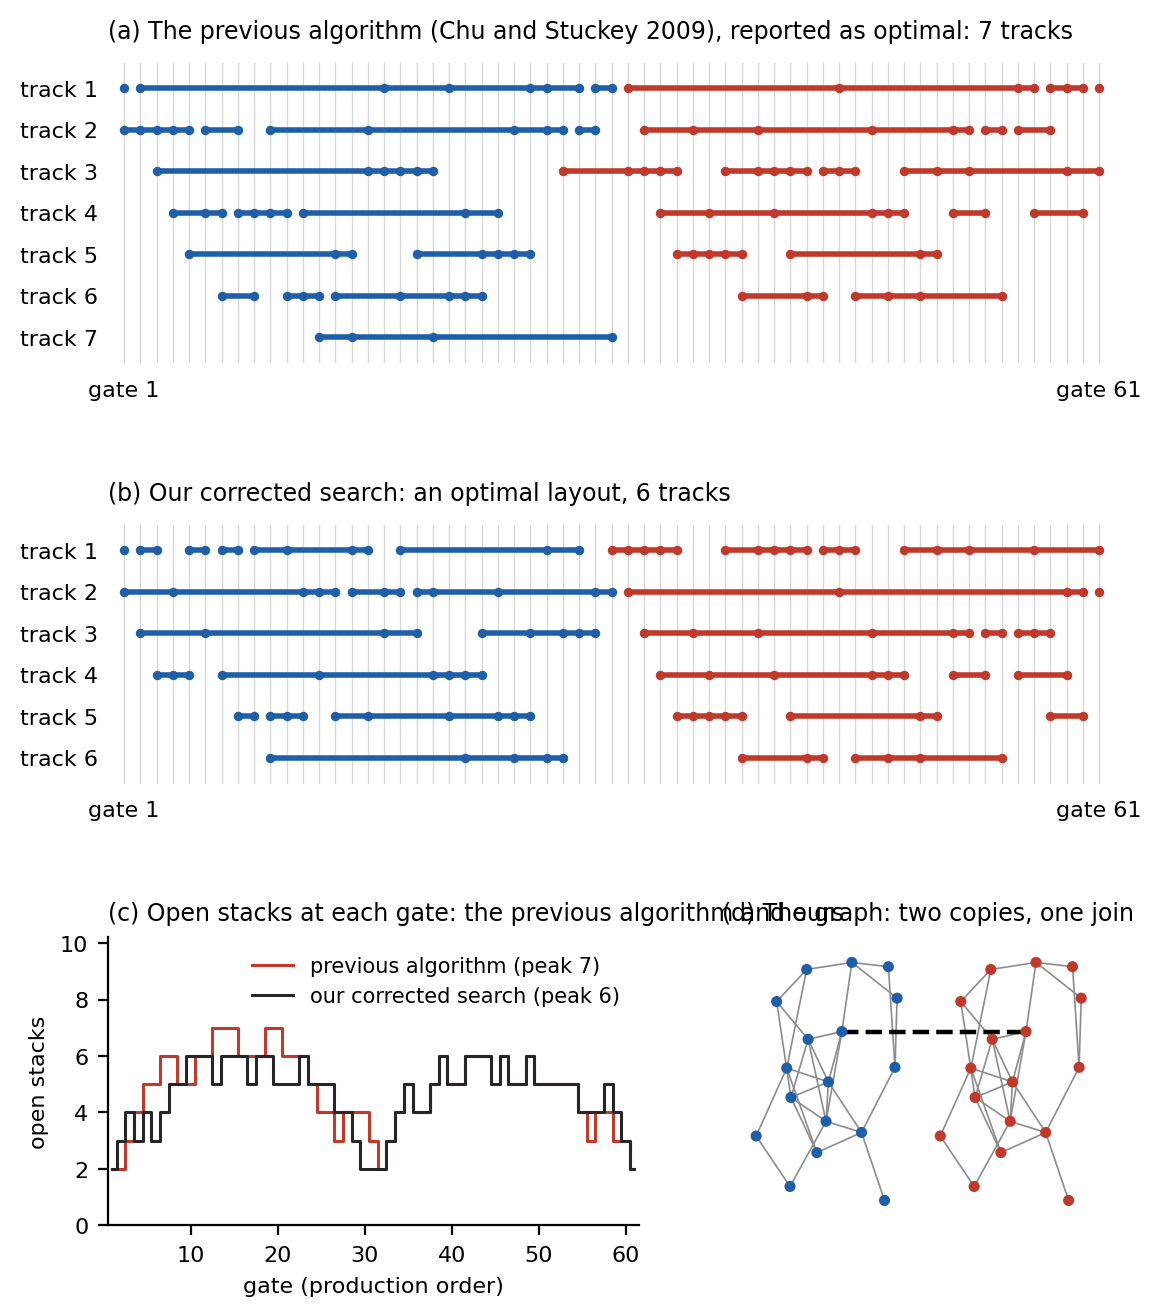
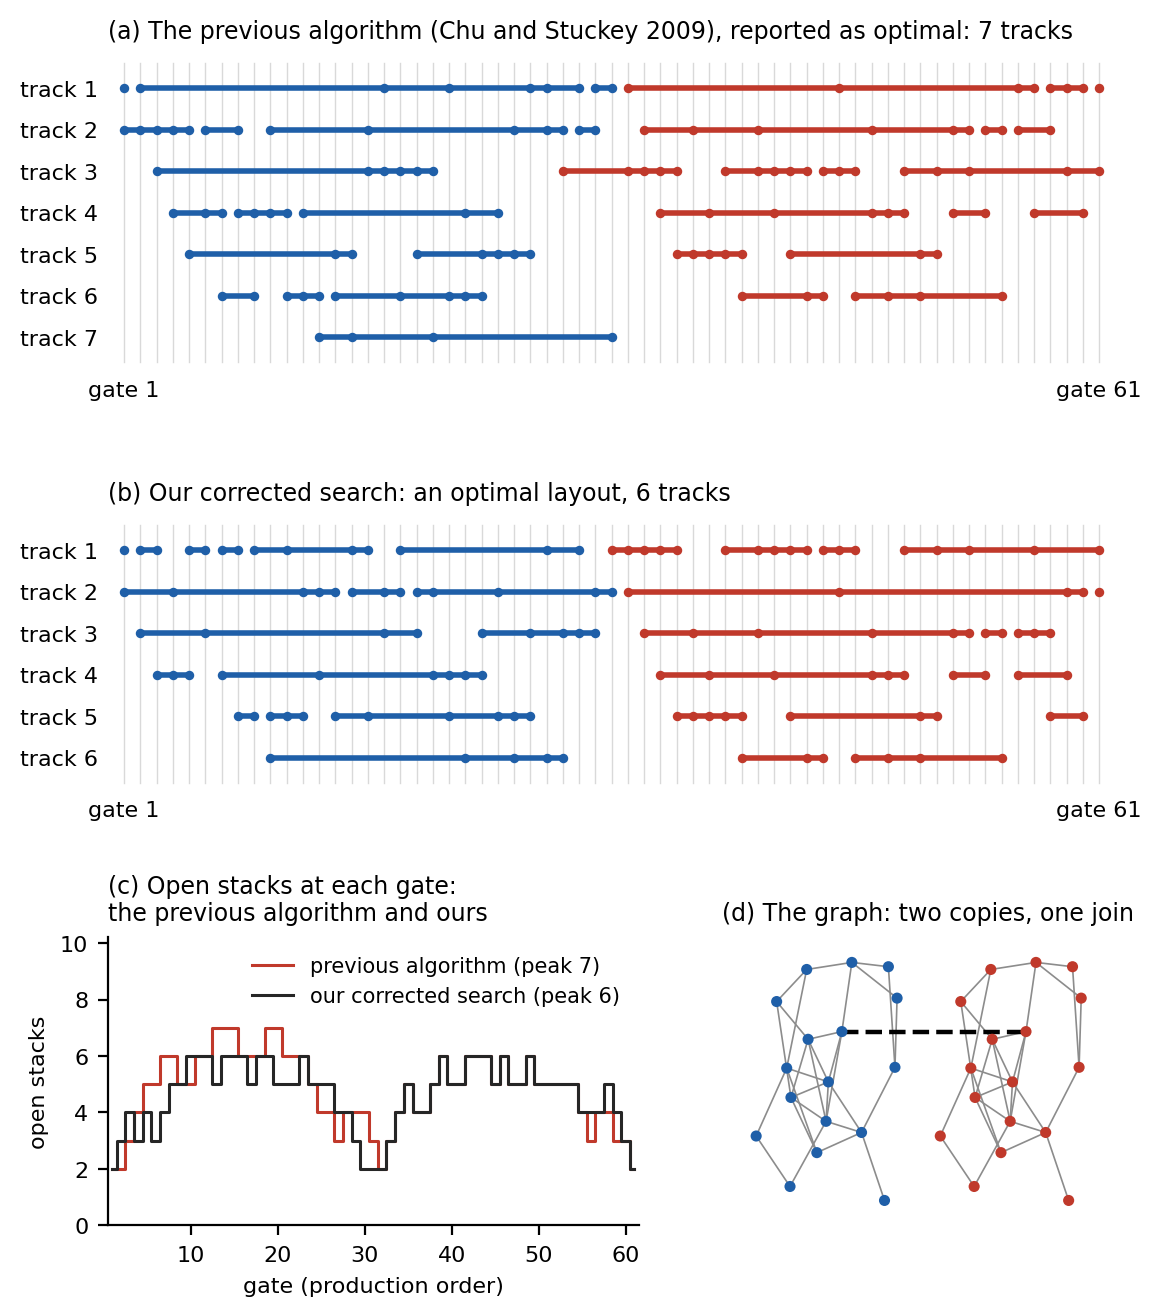
Figure 4.2: panel (c)'s title on two lines, so it no longer runs into (d)'s

Changed region(s): [[0.093, 0.6543, 0.6822, 0.7166]]

diff --git a/paper1/false_refutation_figure.py b/paper1/false_refutation_figure.py
@@ -171,7 +171,7 @@ def draw() -> Path:
     ax_b.legend(loc="upper right", fontsize=7.5, frameon=False, ncol=1)
     for s in ("top", "right"):
         ax_b.spines[s].set_visible(False)
-    ax_b.set_title("(c) Open stacks at each gate: the previous algorithm and ours", loc="left", fontsize=8.5)
+    ax_b.set_title("(c) Open stacks at each gate:\nthe previous algorithm and ours", loc="left", fontsize=8.5)
 
     # (d) the MOSP graph: two glued copies
     G = nx.Graph()
